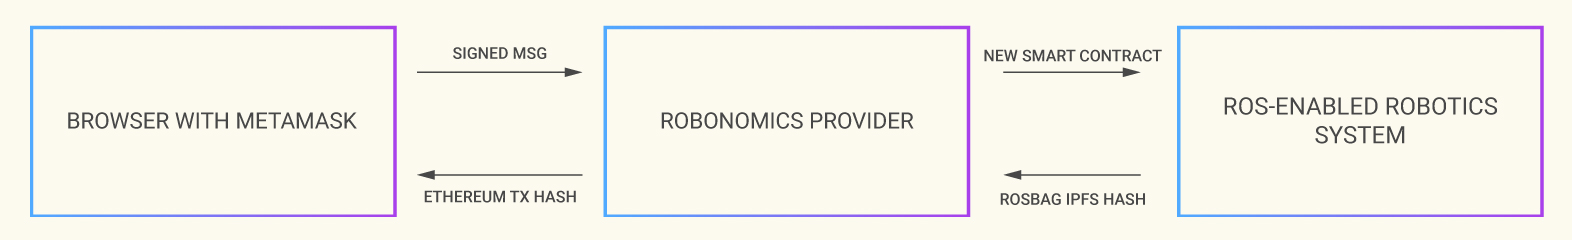
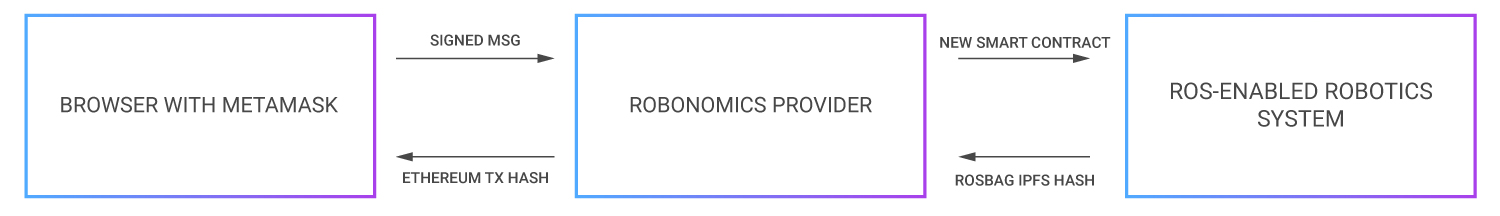
change background color for light theme

Changed region(s): [[0.0, 0.0556, 0.644, 0.9444], [0.6133, 0.0556, 1.0, 0.9444]]

diff --git a/src/assets/style/_menu.scss b/src/assets/style/_menu.scss
@@ -18,6 +18,16 @@
 		}
 	}
 
+	&__title{
+		cursor: pointer;
+		font-size: 1rem;
+		margin-bottom: .5rem;
+	}
+
+	.menu .menu__title{
+		font-size: 0.8rem;
+	}
+
 	&__item-depth-2{
 		margin-bottom: 0;
 		padding: .4rem 0;
@@ -35,6 +45,4 @@
 		padding: .2rem 1.4rem;
 	}
 
-	h4 { font-size: 1rem; margin-bottom: .5rem; }
-	.menu h4{ font-size: 0.8rem; }
 }

diff --git a/src/assets/style/_variables.scss b/src/assets/style/_variables.scss
@@ -6,7 +6,8 @@ html {
 // Light default theme
 body {
 	--color-dark: #162128;
-	--color-light: rgb(252, 250, 239); //#fcfaef
+	// --color-light: rgb(252, 250, 239); //#fcfaef
+	--color-light: #ffffff;
 
  	--body-bg: var(--color-light);
  	--text-color: 68, 68, 68; //#444

diff --git a/src/layouts/Default.vue b/src/layouts/Default.vue
@@ -90,7 +90,7 @@ query {
   }
   
 .header {
-  padding: calc(var(--space) / 4) 0;
+  padding: calc(var(--space) / 6) 0;
   background-color: var(--header-bg);
 
   top:0;
